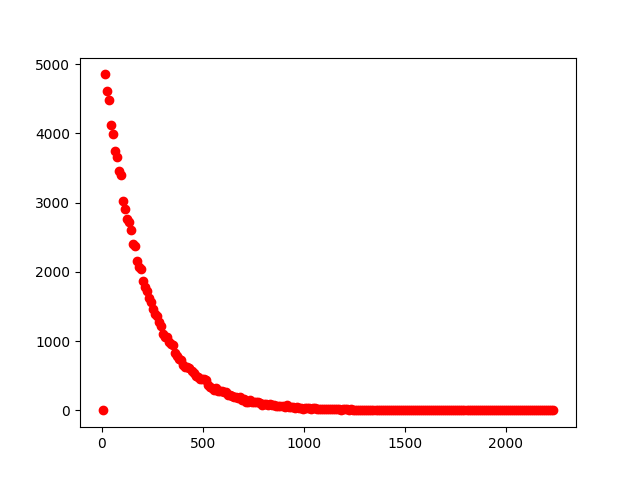
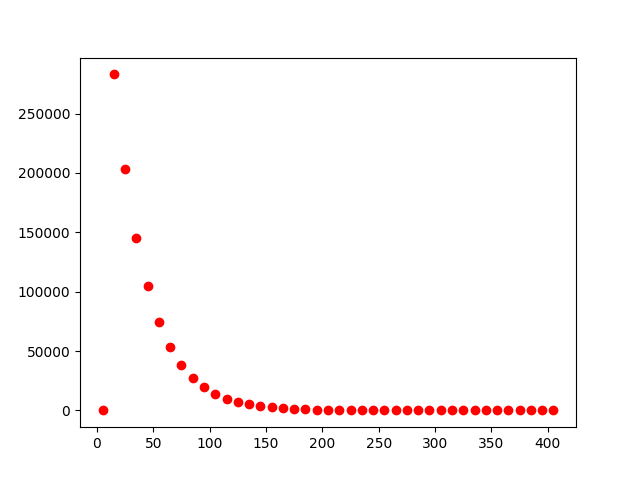
binning in function

diff --git a/Master_Thesis/MC_sym_2.py b/Master_Thesis/MC_sym_2.py
@@ -6,63 +6,41 @@ import math
 import random
 import time
 
-def binning(x, size = 10**(-9)):
-
-    number_of_bins = np.round(max(x)/size) + 1;
-    bins = range(0,number_of_bins*size,size);
+def binning(x, size = 10):   
+    number_of_bins = round((max(x)-min(x))/size) + 1;
     
-    bins_label = [x for i in bins (x+size)/2];
-
-    binned_data = {bins_label:[0]*len(bins_label)}
-
+    bins = [i*size for i in range(0,number_of_bins)];
+    bins_label = [i+(size)/2 for i in bins];
+    
+    values = [0]*len(bins_label)
+    binned_data = dict(zip(bins_label,values));
+    
     n=0;
-
     for item in x:
         for lim in bins:
-            if item >= lim:
-                binned_data[bins_label[n]] =+ 1;
-    
-    return binned_data;
+            if item <= lim:
+                binned_data[bins_label[n]]+=1;
+                break
+            n+=1;
+        n=0;    
+
+    return(binned_data);
 
 
 random.seed(100)
-number = 100000;
+number = 1000000;
 emissions = [];
-tau = 200
+tau = 30
 
 for i in range(number-1):
     
     t = -tau*math.log(random.uniform(0,1))
     emissions.append(t);
 
-
-
-x = emissions;
-
-size = 10;
-number_of_bins = round((max(x)-min(x))/size) + 1;
-
-bins = [i*size for i in range(0,number_of_bins)];
-
-bins_label = [i+(size)/2 for i in bins];
-
-values = [0]*len(bins_label)
-
-binned_data = dict(zip(bins_label,values));
-
-
-n=0;
-
-for item in x:
-    for lim in bins:
-        if item <= lim:
-            binned_data[bins_label[n]]+=1;
-            break
-        n+=1;
-    n=0;    
-
-EM = binned_data.items()
+binned_emissions = binning(emissions);
+EM = binned_emissions.items()
 EM = sorted(EM) 
+print(EM)
 x, y = zip(*EM)
 
 plt.plot(x,y,'ro')
